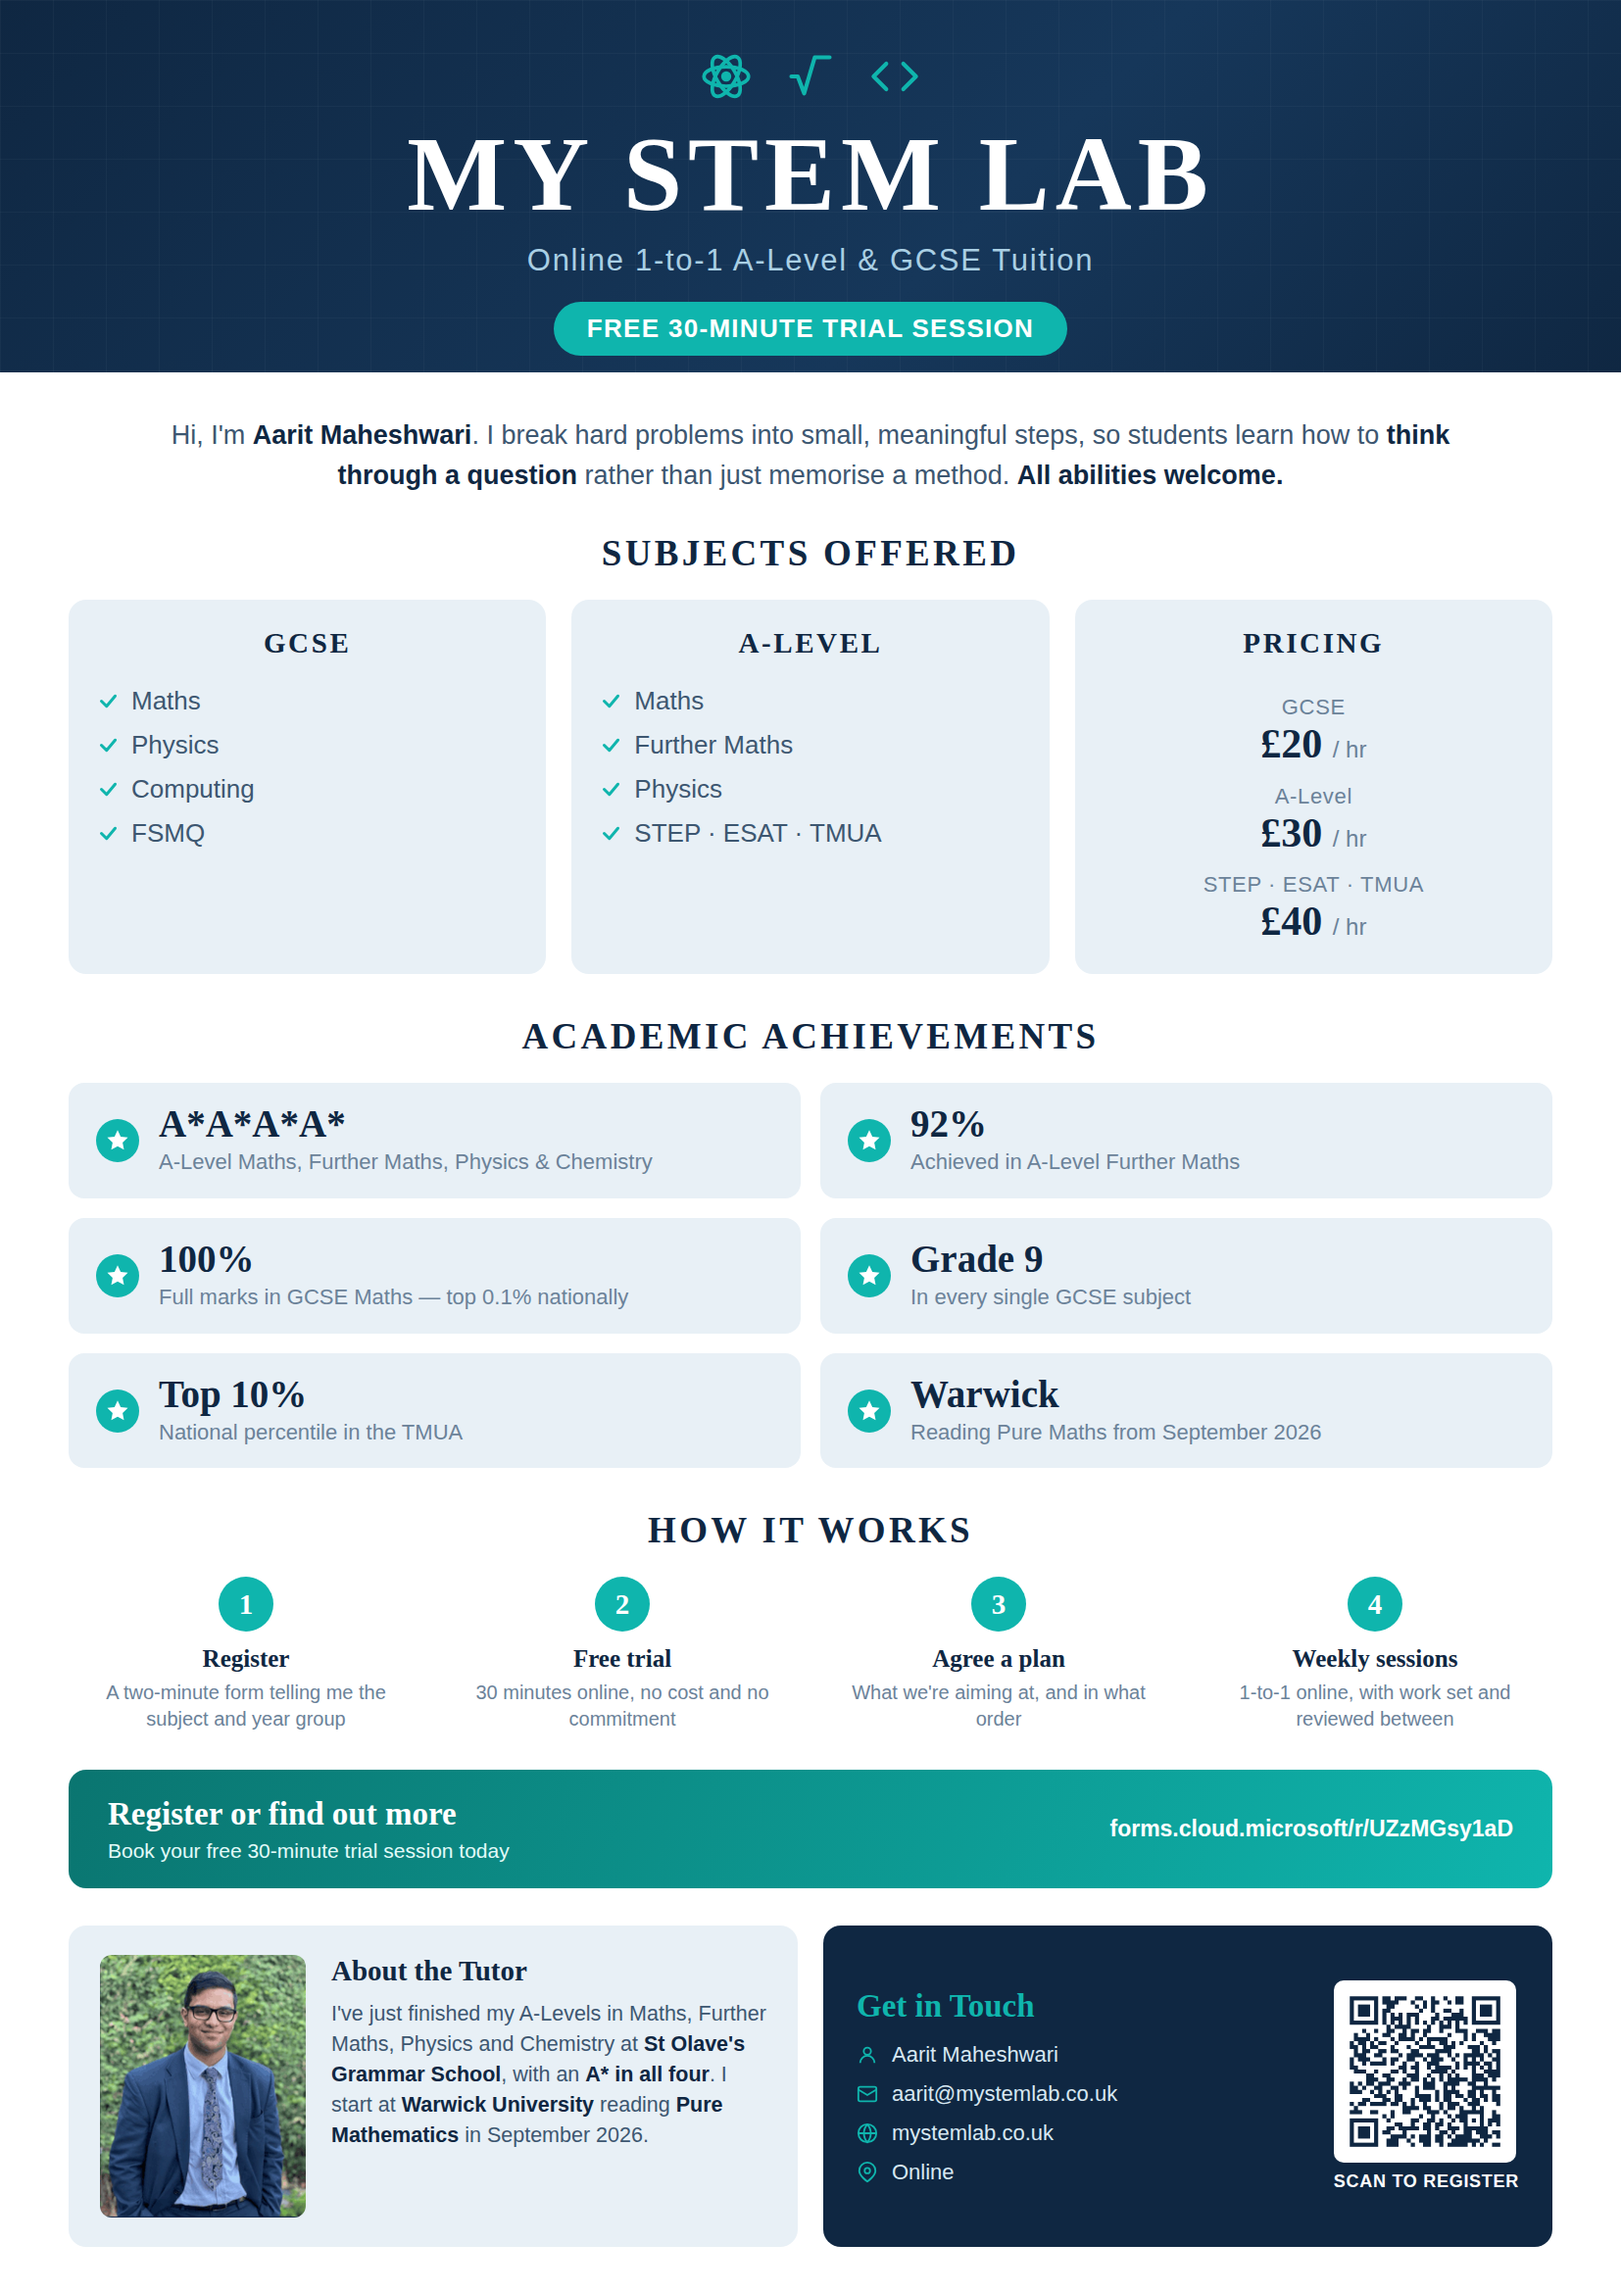
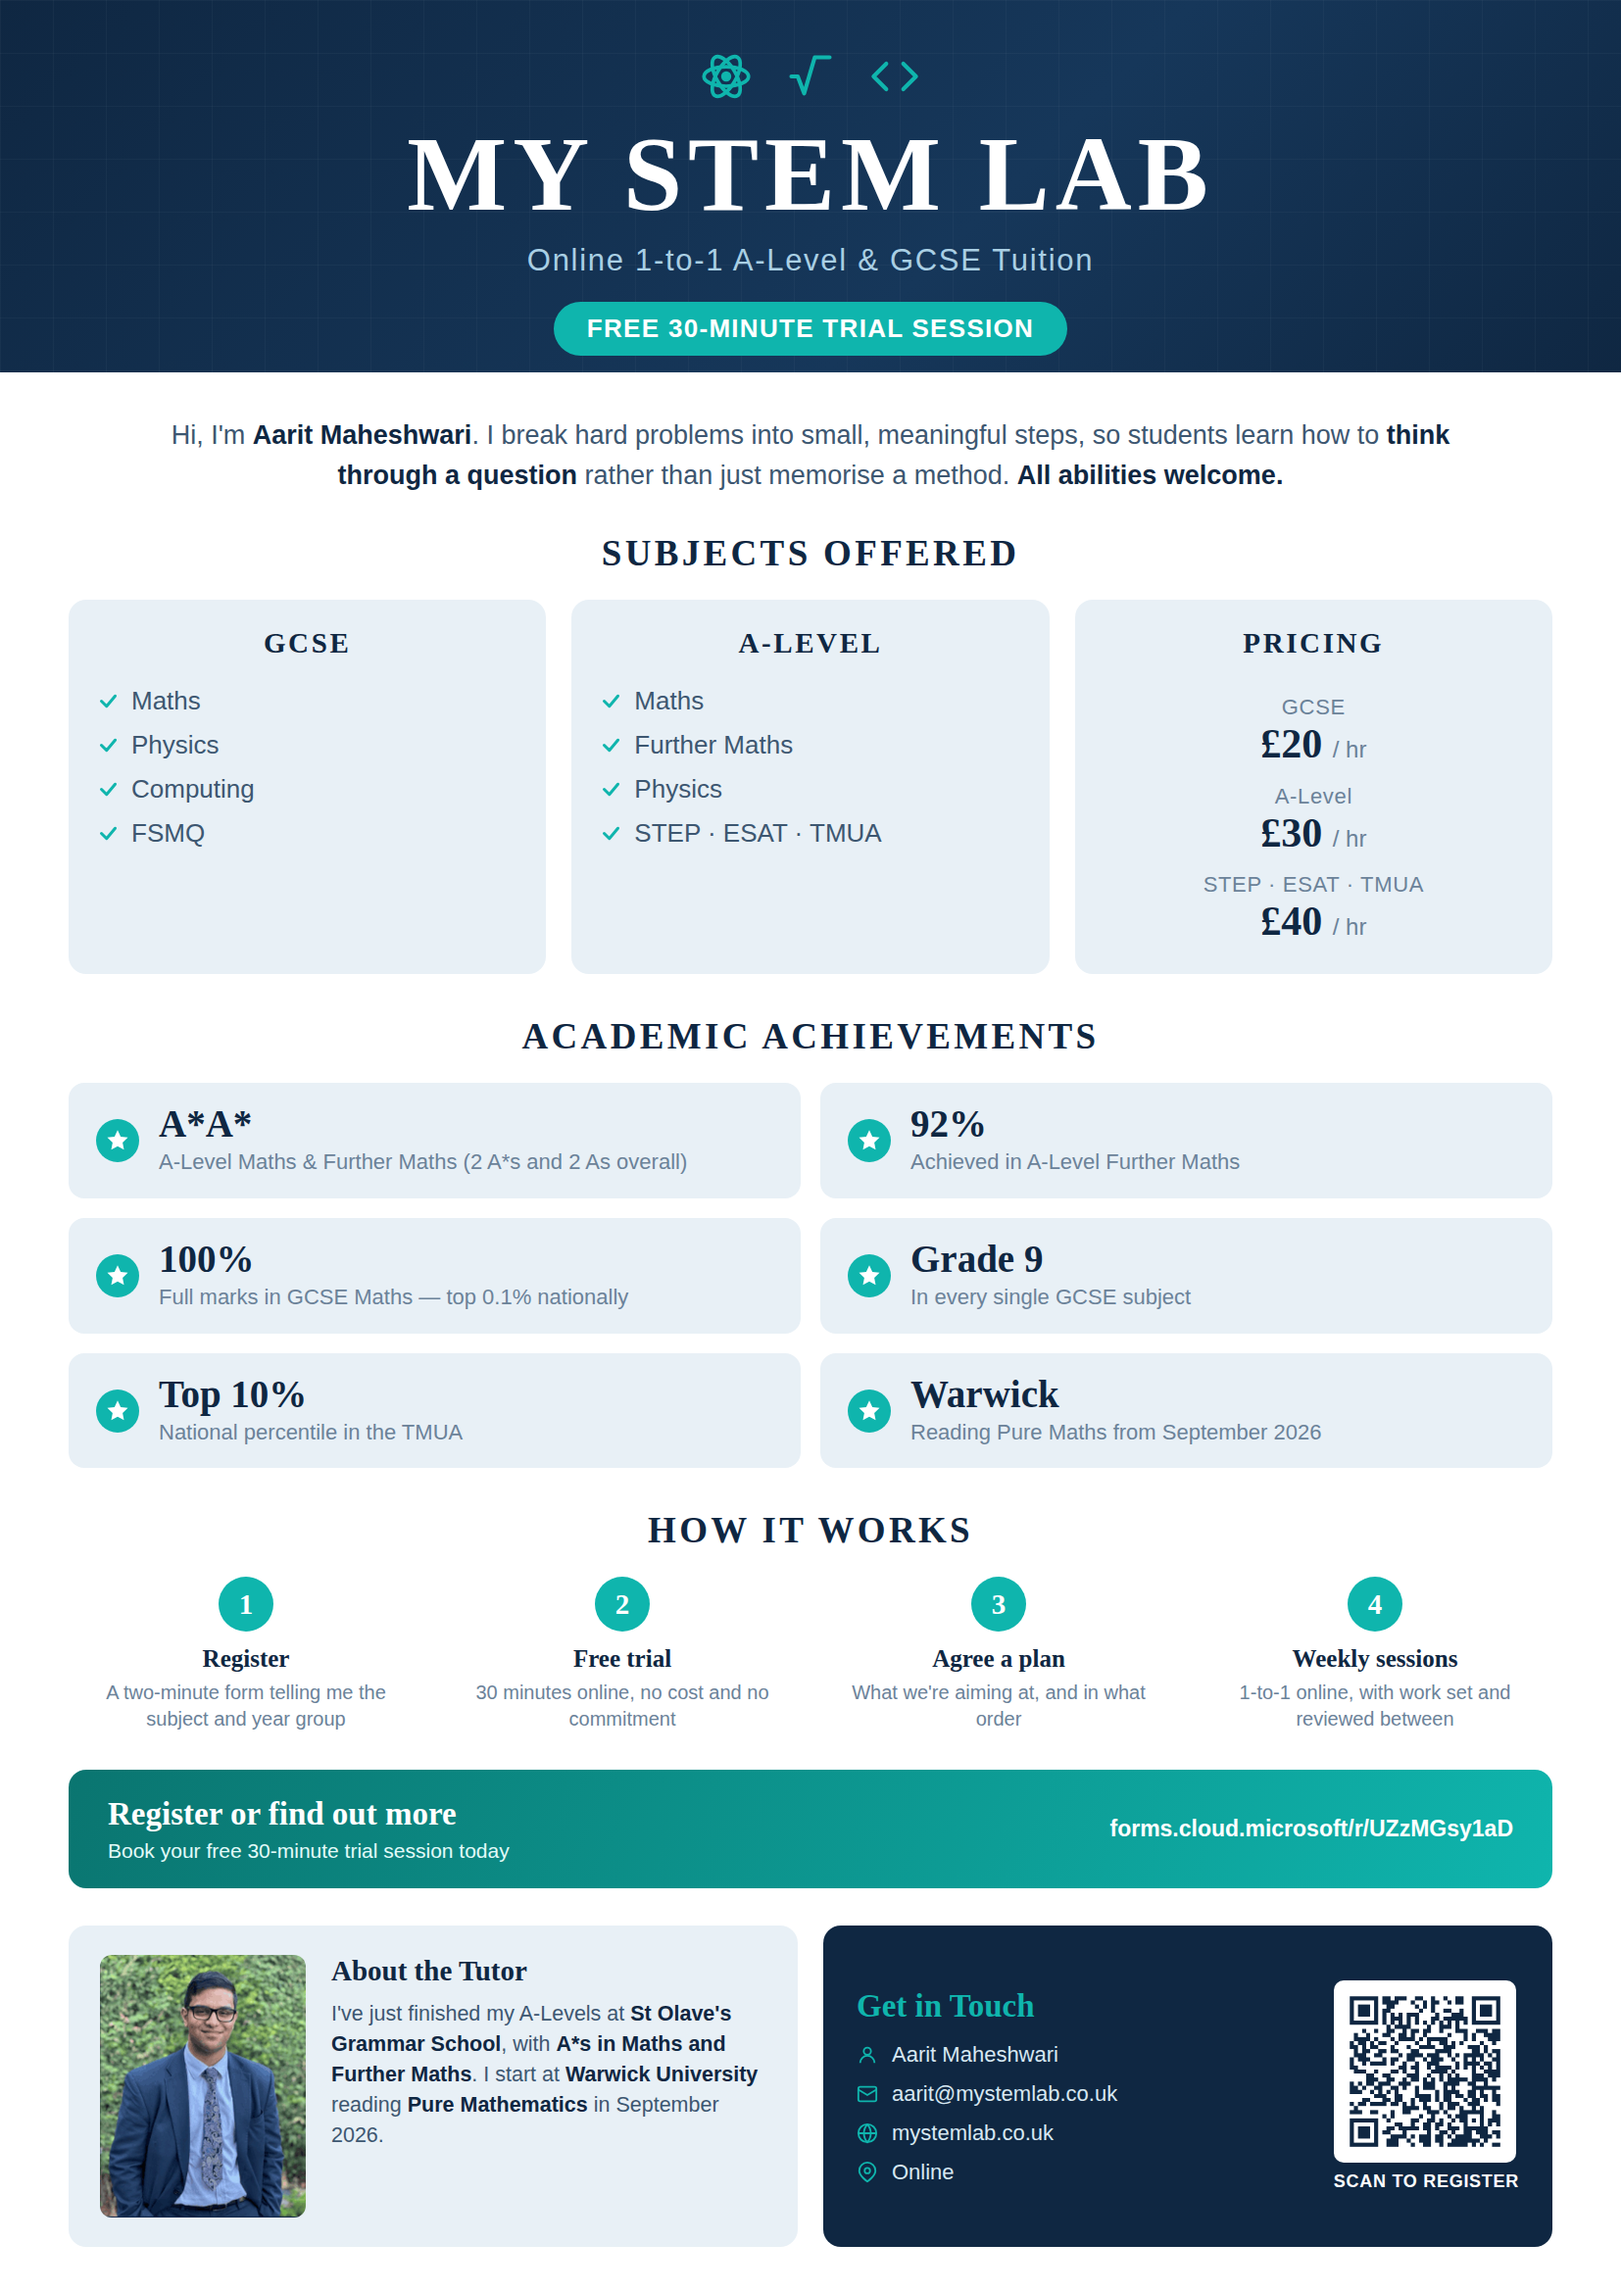
Freshen up site
Preparing to launch youtube channel on maths

Changed region(s): [[0.185, 0.8739, 0.4625, 0.9363], [0.1542, 0.4681, 0.4008, 0.5306]]

diff --git a/index.html b/index.html
@@ -18,17 +18,18 @@ description: "Online 1-to-1 tuition in Maths, Further Maths, Physics and Computi
         <a class="btn btn-primary btn-lg" href="{{ site.register_form }}" target="_blank" rel="noopener">Book your free trial</a>
         <a class="btn btn-outline-light" href="{{ '/subjects/' | relative_url }}">See subjects &amp; prices</a>
       </div>
-      <p class="hero-note">Taught by {{ site.tutor_name }} · A* in Maths, Further Maths, Physics and Chemistry</p>
+      <p class="hero-note">Taught by {{ site.tutor_name }} · A* in A-Level Maths and Further Maths</p>
     </div>
 
     <div class="hero-card">
       <h2>Recent results</h2>
       <ul class="hero-stats">
-        <li><b>A*A*A*A*</b><span>A-Level Maths, Further Maths, Physics and Chemistry — 92% in Further Maths</span></li>
+        <li><b>A*A*</b><span>A-Level Maths and Further Maths — including 92% in Further Maths</span></li>
         <li><b>100%</b><span>Full marks in GCSE Maths — top 0.1% nationally</span></li>
         <li><b>Grade 9</b><span>In every one of ten GCSE subjects</span></li>
         <li><b>Top 10%</b><span>National percentile in the TMUA</span></li>
       </ul>
+      <p class="hero-card-note">2 A*s and 2 As across four A-Levels, at St Olave's Grammar School</p>
     </div>
   </div>
 </section>
@@ -181,8 +182,8 @@ description: "Online 1-to-1 tuition in Maths, Further Maths, Physics and Computi
       <p class="eyebrow">About the tutor</p>
       <h2>Hi, I'm {{ site.tutor_name }}</h2>
       <p>
-        I've just finished my A-Levels in Maths, Further Maths, Physics and Chemistry at
-        St Olave's Grammar School, with an A* in all four and 92% in Further Maths. I start at the
+        I've just finished my A-Levels at St Olave's Grammar School — 2 A*s and 2 As, with the
+        A*s in Maths and Further Maths, including 92% in Further Maths. I start at the
         University of Warwick reading Pure Mathematics in September 2026.
       </p>
       <p>

diff --git a/about.html b/about.html
@@ -3,7 +3,7 @@ layout: default
 title: About
 permalink: /about/
 nav_section: About
-description: "Aarit Maheshwari — A* in Maths, Further Maths, Physics and Chemistry at St Olave's Grammar School, reading Pure Maths at Warwick from September 2026."
+description: "Aarit Maheshwari — A* in A-Level Maths and Further Maths at St Olave's Grammar School, reading Pure Maths at Warwick from September 2026."
 ---
 
 <header class="page-head">
@@ -21,8 +21,8 @@ description: "Aarit Maheshwari — A* in Maths, Further Maths, Physics and Chemi
     <div class="prose" style="padding-block:0">
       <h2>A bit about me</h2>
       <p>
-        I've just finished my A-Levels in Maths, Further Maths, Physics and Chemistry at
-        <strong>St Olave's Grammar School</strong>, coming out with an <strong>A* in all four</strong> and
+        I've just finished my A-Levels at <strong>St Olave's Grammar School</strong> — 2 A*s and 2 As,
+        with the <strong>A*s in Maths and Further Maths</strong>, including
         <strong>92% in Further Maths</strong>. In September 2026 I start at the
         <strong>University of Warwick</strong>, reading Pure Mathematics.
       </p>

diff --git a/poster/poster.html b/poster/poster.html
@@ -175,7 +175,7 @@
     <div class="stats">
       <div class="stat">
         <span class="dot"><svg viewBox="0 0 24 24" fill="currentColor"><path d="m12 2 2.9 6.3 6.8.8-5 4.7 1.3 6.8L12 17.3 6 20.6l1.3-6.8-5-4.7 6.8-.8z"/></svg></span>
-        <span><b>A*A*A*A*</b><span>A-Level Maths, Further Maths, Physics &amp; Chemistry</span></span>
+        <span><b>A*A*</b><span>A-Level Maths &amp; Further Maths (2 A*s and 2 As overall)</span></span>
       </div>
       <div class="stat">
         <span class="dot"><svg viewBox="0 0 24 24" fill="currentColor"><path d="m12 2 2.9 6.3 6.8.8-5 4.7 1.3 6.8L12 17.3 6 20.6l1.3-6.8-5-4.7 6.8-.8z"/></svg></span>
@@ -239,8 +239,8 @@
       <div>
         <h3>About the Tutor</h3>
         <p>
-          I've just finished my A-Levels in Maths, Further Maths, Physics and Chemistry at
-          <b>St Olave's Grammar School</b>, with an <b>A* in all four</b>. I start at
+          I've just finished my A-Levels at <b>St Olave's Grammar School</b>, with
+          <b>A*s in Maths and Further Maths</b>. I start at
           <b>Warwick University</b> reading <b>Pure Mathematics</b> in September 2026.
         </p>
       </div>

diff --git a/assets/css/style.css b/assets/css/style.css
@@ -191,6 +191,11 @@ p  { margin: 0 0 1.1em; }
 .hero-stats li { display: grid; grid-template-columns: auto 1fr; gap: .9rem; align-items: baseline; }
 .hero-stats b { font-family: var(--serif); font-size: 1.45rem; color: #4fe0d8; white-space: nowrap; }
 .hero-stats span { font-size: .89rem; color: #b9d3e4; line-height: 1.45; }
+.hero-card-note {
+  margin: 1.25rem 0 0; padding-top: 1rem;
+  border-top: 1px solid rgba(255,255,255,.14);
+  font-size: .82rem; color: #93b3c9; line-height: 1.45;
+}
 
 @media (max-width: 880px) {
   .hero-grid { grid-template-columns: 1fr; }
